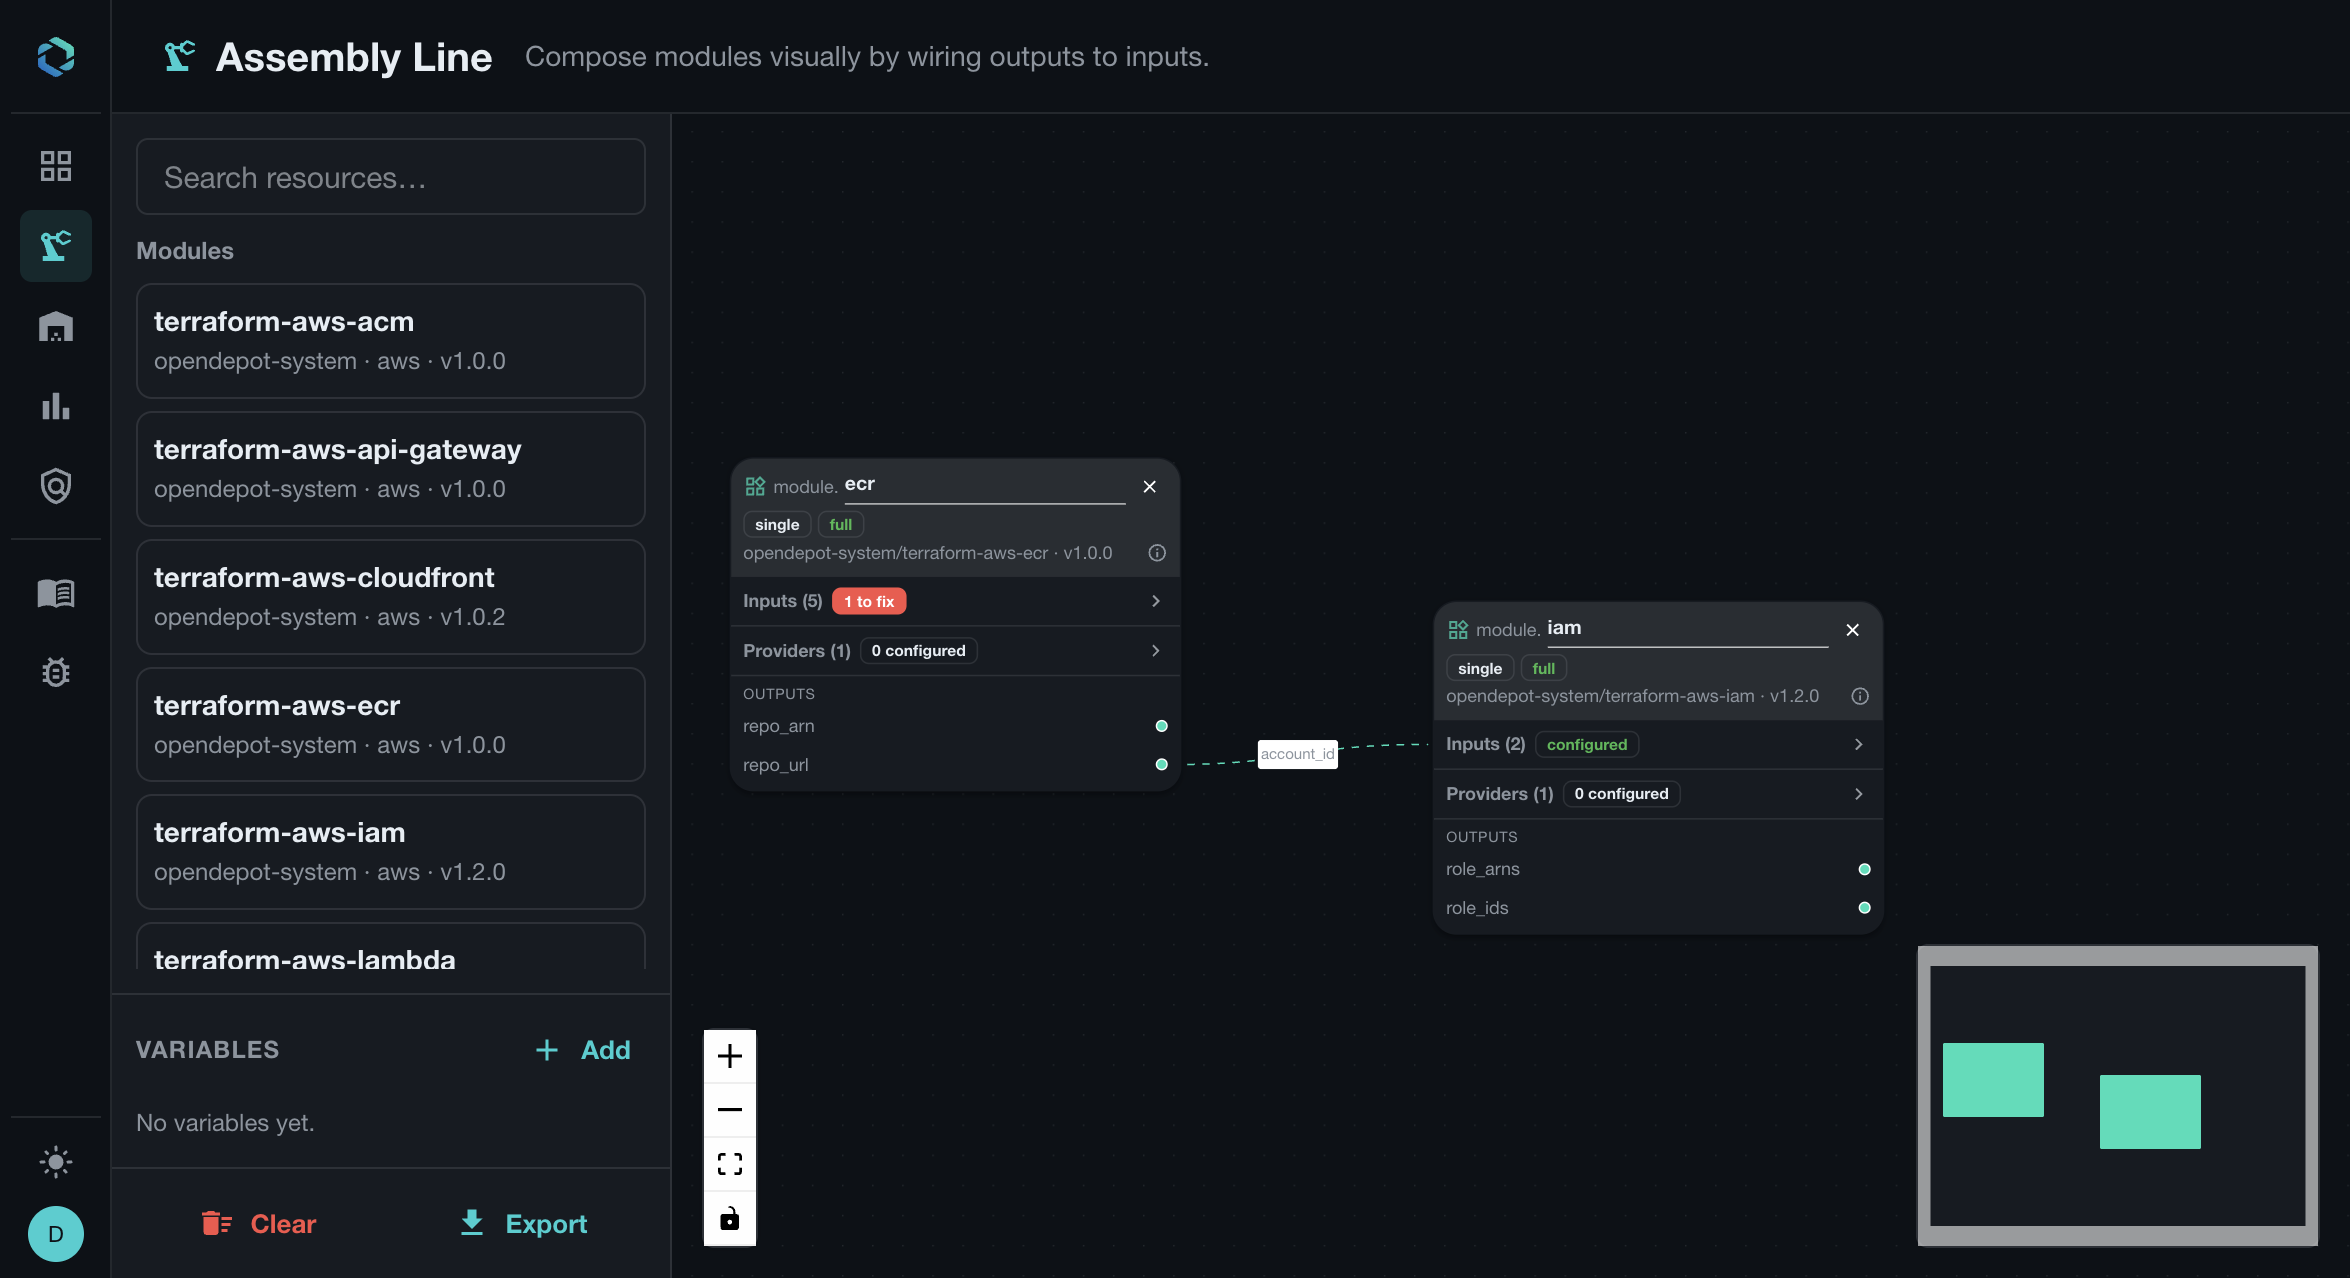
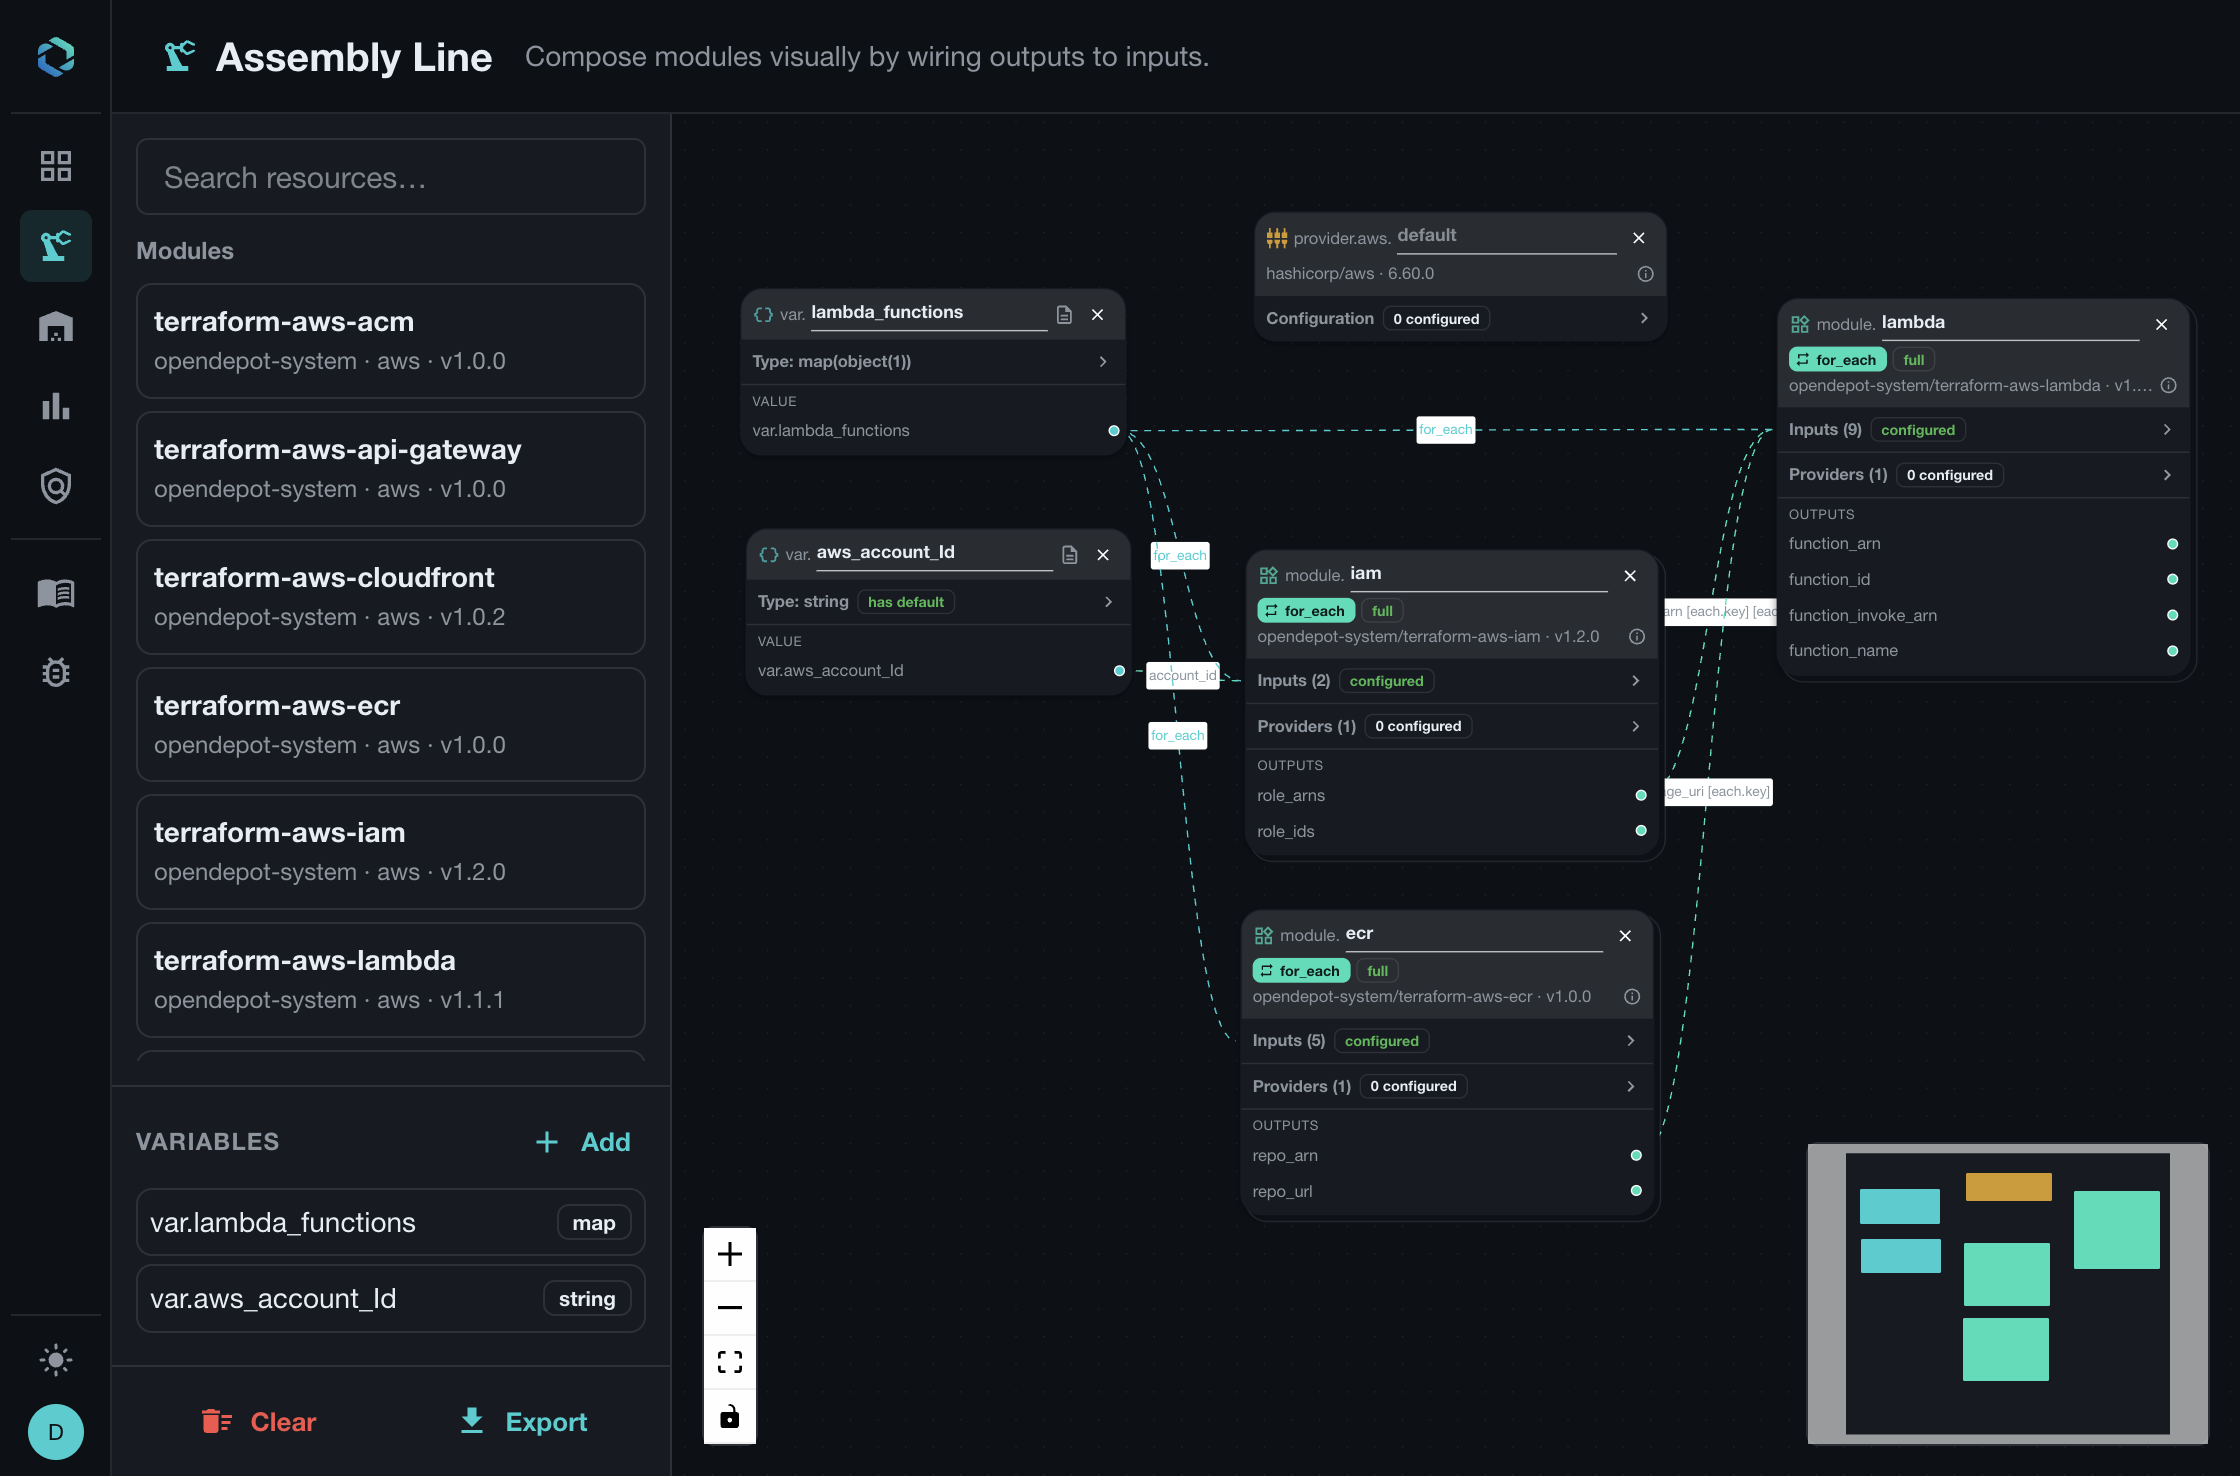
Refresh OpenDepot landing page visuals

diff --git a/site-root/styles.css b/site-root/styles.css
@@ -485,6 +485,7 @@
     }
     .policy-inner,
     .assembly-inner {
+      position: relative;
       display: grid;
       grid-template-columns: minmax(0, 5fr) minmax(0, 7fr);
       gap: 40px 64px;
@@ -562,7 +563,7 @@
       width: min(430px, 64%);
       margin: -96px 0 0 -32px;
       padding: 18px 22px 20px;
-      border-left: 4px solid var(--teal);
+      border-radius: 10px;
       background: #000000;
       box-shadow: 12px 12px 0 var(--teal);
     }
@@ -630,8 +631,19 @@
     .screen-assembly,
     .screen-assembly:hover,
     .screen-assembly:focus-visible {
-      border-color: #ffffff;
+      border-width: 0;
       box-shadow: 16px 16px 0 var(--teal);
+    }
+    .screen-contract {
+      z-index: 2;
+      width: 48%;
+      margin: -88px 24px 0 auto;
+      border-width: 0;
+      box-shadow: 0 14px 28px rgba(0, 0, 0, .28), 12px 12px 0 var(--blue);
+    }
+    .screen-contract:hover,
+    .screen-contract:focus-visible {
+      box-shadow: 0 18px 34px rgba(0, 0, 0, .34), 12px 12px 0 var(--blue);
     }
     .assembly-visual figcaption { color: rgba(255, 255, 255, .5); }
     .assembly-stations {
@@ -654,6 +666,32 @@
       background-size: 24px 2px;
       content: "";
       animation: conveyor 1.2s linear infinite;
+    }
+    .assembly-stations .assembly-crane-route {
+      position: absolute;
+      top: 0;
+      left: calc(100% + 120px);
+      width: 60px;
+      height: 96px;
+      background: repeating-linear-gradient(90deg, var(--teal) 0 14px, transparent 14px 24px) top left / 24px 2px repeat-x, repeating-linear-gradient(180deg, var(--teal) 0 14px, transparent 14px 24px) top right / 2px 24px repeat-y;
+      pointer-events: none;
+    }
+    .assembly-stations .assembly-crane-route::before {
+      display: none;
+    }
+    .assembly-crane-route::after {
+      position: absolute;
+      right: auto;
+      left: calc(100% - 1px);
+      bottom: -10px;
+      width: 0;
+      height: 0;
+      border-right: 7px solid transparent;
+      border-bottom: 0;
+      border-left: 7px solid transparent;
+      border-top: 10px solid var(--teal);
+      content: "";
+      transform: translateX(-50%);
     }
     .assembly-stations li { position: relative; }
     .assembly-stations li::before {
@@ -707,6 +745,8 @@
     }
     @keyframes conveyor { to { background-position: 24px 0; } }
     @keyframes conveyor-vertical { to { background-position: 0 24px; } }
+    @keyframes crane-route-flow { to { background-position: 24px 0, 58px 24px; } }
+    .assembly-stations .assembly-crane-route { animation: crane-route-flow 1.2s linear infinite; }
     @keyframes crane-sway { 0%, 100% { transform: rotate(0deg); } 25% { transform: rotate(1.6deg); } 75% { transform: rotate(-1.6deg); } }
     .image-modal {
       position: fixed;
@@ -978,6 +1018,7 @@
       .assembly { padding: 72px 0 128px; }
       .policy-inner,
       .assembly-inner { grid-template-columns: minmax(0, 1fr); gap: 32px; padding: 0 20px; }
+      .policy-visual { width: 100%; min-width: 0; }
       .policy-lede,
       .assembly-heading > p:last-child { font-size: 1rem; }
       .policy-lede { margin-bottom: 28px; }
@@ -989,10 +1030,20 @@
       .policy-visual figcaption { max-width: none; margin-top: 24px; text-align: left; }
       .screen-assembly,
       .screen-assembly:hover,
-      .screen-assembly:focus-visible { border-width: 5px; box-shadow: 10px 10px 0 var(--teal); }
+      .screen-assembly:focus-visible { border-width: 0; box-shadow: 10px 10px 0 var(--teal); }
+      .screen-contract {
+        width: 64%;
+        margin: -48px 8px 0 auto;
+        border-width: 0;
+        box-shadow: 0 8px 16px rgba(0, 0, 0, .24), 7px 7px 0 var(--blue);
+      }
+      .screen-contract:hover,
+      .screen-contract:focus-visible { box-shadow: 0 12px 20px rgba(0, 0, 0, .28), 7px 7px 0 var(--blue); }
       .assembly-visual figcaption { margin-top: 20px; text-align: left; }
       .assembly-stations { grid-template-columns: minmax(0, 1fr); gap: 28px; margin: 8px 0 0 7px; padding: 0 0 0 28px; }
-      .assembly-stations::before { top: 0; width: 2px; height: 100%; background: repeating-linear-gradient(180deg, var(--teal) 0 14px, transparent 14px 24px); background-size: 2px 24px; animation-name: conveyor-vertical; }
+      .assembly-stations::before { top: 11px; width: 2px; height: calc(100% - 11px); background: repeating-linear-gradient(180deg, var(--teal) 0 14px, transparent 14px 24px); background-size: 2px 24px; animation-name: conveyor-vertical; }
+      .assembly-stations::after { position: absolute; left: -4px; bottom: -10px; width: 0; height: 0; border-top: 10px solid var(--teal); border-right: 5px solid transparent; border-left: 5px solid transparent; content: ""; }
+      .assembly-crane-route { display: none; }
       .assembly-stations li::before,
       .assembly-stations li:nth-child(n + 3)::before { top: 2px; left: -34px; }
       .assembly-crane { --crane-width: 150px; right: 16px; }
@@ -1044,6 +1095,7 @@
         transition-duration: 0.01ms !important;
       }
       .crane-load,
-      .assembly-stations::before { animation: none !important; }
+      .assembly-stations::before,
+      .assembly-stations .assembly-crane-route { animation: none !important; }
     }
     @keyframes lane-pulse-mobile { from { transform: translateY(0); opacity: .45; } 15%, 85% { opacity: 1; } to { transform: translateY(21px); opacity: .45; } }

diff --git a/site-root/index.html b/site-root/index.html
@@ -184,7 +184,10 @@
       </div>
       <figure class="assembly-visual" aria-label="OpenDepot Assembly Line canvas">
         <button class="screen screen-assembly" type="button" data-image-modal="img/assembly-line-dark.png" aria-label="View OpenDepot Assembly Line screenshot">
-          <img src="img/assembly-line-dark.png" alt="OpenDepot Assembly Line canvas wiring an ECR module output to an IAM module input">
+          <img src="img/assembly-line-dark.png" alt="OpenDepot Assembly Line canvas connecting variables, a provider, and multiple modules with for_each">
+        </button>
+        <button class="screen screen-contract" type="button" data-image-modal="img/module-contracts-dark.png" aria-label="View OpenDepot mobile module contract screenshot">
+          <img src="img/module-contracts-dark.png" alt="OpenDepot mobile module Contract panel showing typed inputs, required values, defaults, and outputs">
         </button>
         <figcaption>Opt-in. OpenTofu providers only.</figcaption>
       </figure>
@@ -193,25 +196,26 @@
         <li><span>02</span><strong>Wire</strong><p>Connect variables and outputs to inputs, alias providers, and repeat modules with <code>count</code> or <code>for_each</code>.</p></li>
         <li><span>03</span><strong>Validate</strong><p>The server re-authorizes every node and runs <code>tofu init</code> through OpenDepot's provider mirror. No public fallback.</p></li>
         <li><span>04</span><strong>Export</strong><p>Download <code>main.tf</code> and <code>variables.tf</code>. No state, lock files, or credentials.</p></li>
+        <li class="assembly-crane-route" aria-hidden="true"></li>
       </ol>
     </div>
     <svg class="assembly-crane" viewBox="0 0 260 380" aria-hidden="true" focusable="false">
       <defs>
-        <linearGradient id="crane-cable" x1="0" y1="56" x2="0" y2="300" gradientUnits="userSpaceOnUse">
+        <linearGradient id="crane-cable" x1="0" y1="76" x2="0" y2="300" gradientUnits="userSpaceOnUse">
           <stop offset="0" stop-color="#ffffff"/>
-          <stop offset=".459" stop-color="#ffffff"/>
-          <stop offset=".459" stop-color="#000000"/>
+          <stop offset=".411" stop-color="#ffffff"/>
+          <stop offset=".411" stop-color="#000000"/>
           <stop offset="1" stop-color="#000000"/>
         </linearGradient>
       </defs>
       <g class="crane-load">
-        <path d="M162 56V292" stroke="url(#crane-cable)" stroke-width="2"/>
+        <path d="M162 76V292" stroke="url(#crane-cable)" stroke-width="2"/>
         <path d="M162 292v8a7 7 0 1 1-7 7" fill="none" stroke="#000000" stroke-width="3" stroke-linecap="round"/>
         <path d="M162 307 104 322M162 307l58 15" stroke="#000000" stroke-width="1.5"/>
         <rect x="104" y="328" width="122" height="46" fill="#0350c7"/>
         <rect x="98" y="322" width="122" height="46" fill="#000000"/>
-        <text x="110" y="343" fill="#ffffff" font-size="11.5" font-weight="800">assembly-line.zip</text>
-        <text x="110" y="358" fill="#03deb8" font-size="9" font-weight="700" letter-spacing=".04em">main.tf · variables.tf</text>
+        <text x="106" y="343" fill="#ffffff" font-size="11.5" font-weight="800">assembly-line.zip</text>
+        <text x="106" y="358" fill="#03deb8" font-size="9" font-weight="700" letter-spacing=".04em">main.tf · variables.tf</text>
       </g>
       <path transform="scale(8)" fill="#03deb8" d="m19.93 8.21-3.6 1.68L14 7.7V6.3l2.33-2.19 3.6 1.68c.38.18.82.01 1-.36.18-.38.01-.82-.36-1L16.65 2.6c-.38-.18-.83-.1-1.13.2l-1.74 1.6c-.18-.24-.46-.4-.78-.4-.55 0-1 .45-1 1v1H8.82C8.34 4.65 6.98 3.73 5.4 4.07c-1.16.25-2.15 1.25-2.36 2.43-.22 1.32.46 2.47 1.48 3.08L7.08 18H4v3h13v-3h-3.62L8.41 8.77c.17-.24.31-.49.41-.77H12v1c0 .55.45 1 1 1 .32 0 .6-.16.78-.4l1.74 1.6c.3.3.75.38 1.13.2l3.92-1.83c.38-.18.54-.62.36-1-.18-.37-.62-.54-1-.36M6 8c-.55 0-1-.45-1-1s.45-1 1-1 1 .45 1 1-.45 1-1 1"/>
     </svg>
